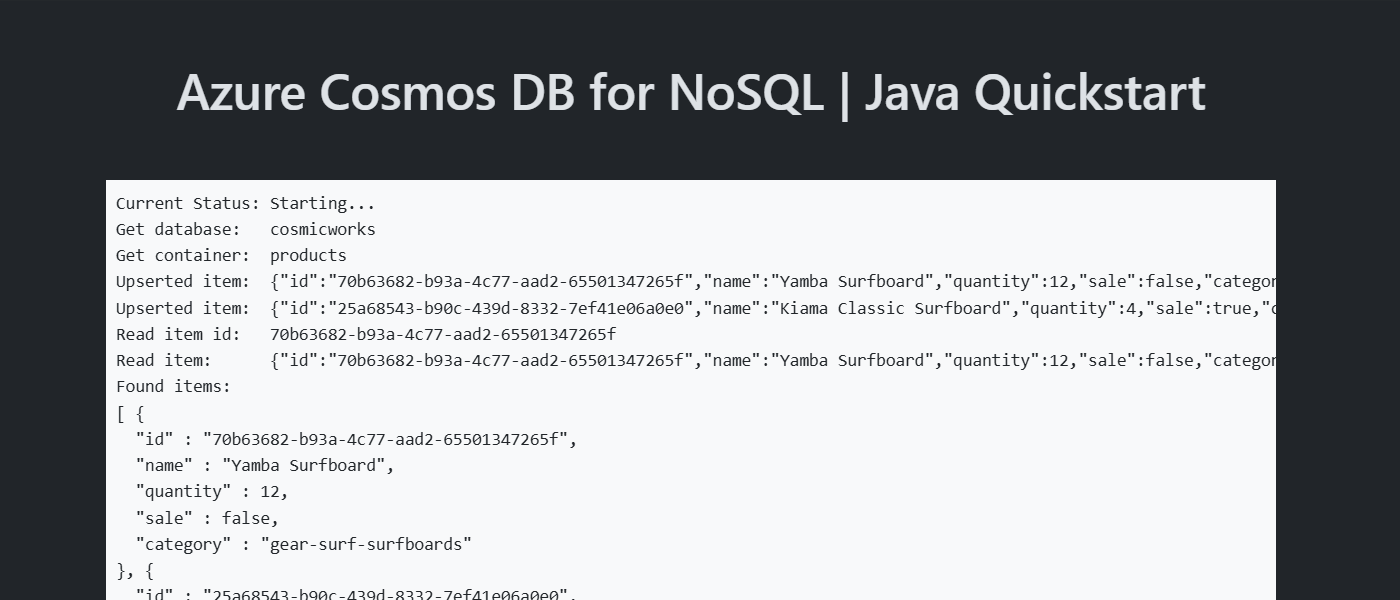
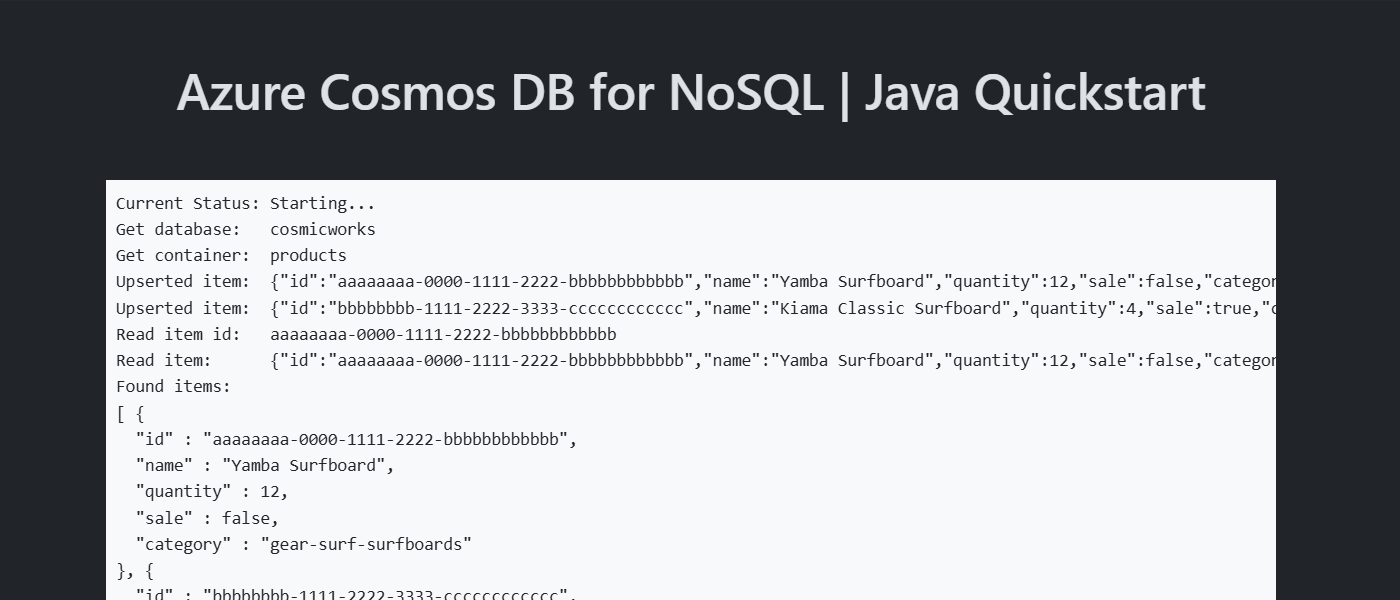
Update GUIDs

Changed region(s): [[0.1843, 0.45, 0.4914, 0.63], [0.1536, 0.96, 0.3993, 1.0], [0.1536, 0.72, 0.3993, 0.75]]

diff --git a/src/src/main/java/com/microsoft/learn/azure/cosmosdb/nosql/quickstart/StartController.java b/src/src/main/java/com/microsoft/learn/azure/cosmosdb/nosql/quickstart/StartController.java
@@ -38,7 +38,7 @@ public class StartController {
 
         {
             Item item = new Item(
-                "70b63682-b93a-4c77-aad2-65501347265f",
+                "aaaaaaaa-0000-1111-2222-bbbbbbbbbbbb",
                 "gear-surf-surfboards",
                 "Yamba Surfboard",
                 12,
@@ -51,7 +51,7 @@ public class StartController {
 
         {
             Item item = new Item(
-                "25a68543-b90c-439d-8332-7ef41e06a0e0",
+                "bbbbbbbb-1111-2222-3333-cccccccccccc",
                 "gear-surf-surfboards",
                 "Kiama Classic Surfboard",
                 4,
@@ -62,7 +62,7 @@ public class StartController {
         }
 
         PartitionKey partitionKey = new PartitionKey("gear-surf-surfboards");
-        Optional<Item> existing_item = repository.findById("70b63682-b93a-4c77-aad2-65501347265f", partitionKey);
+        Optional<Item> existing_item = repository.findById("aaaaaaaa-0000-1111-2222-bbbbbbbbbbbb", partitionKey);
         if (existing_item.isPresent()) {
             // Do something  
         }
